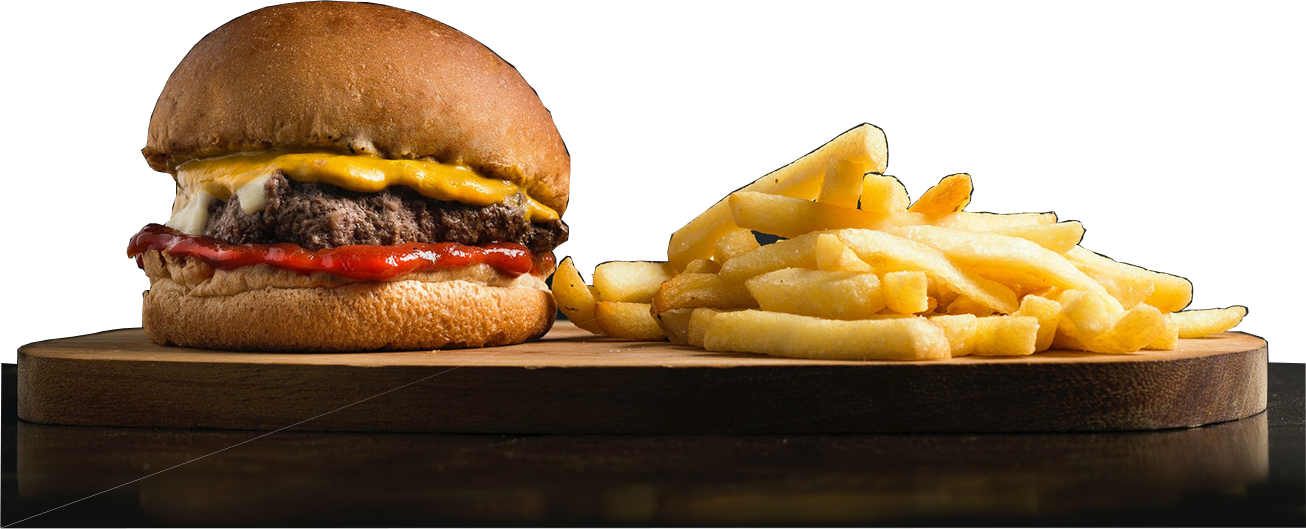
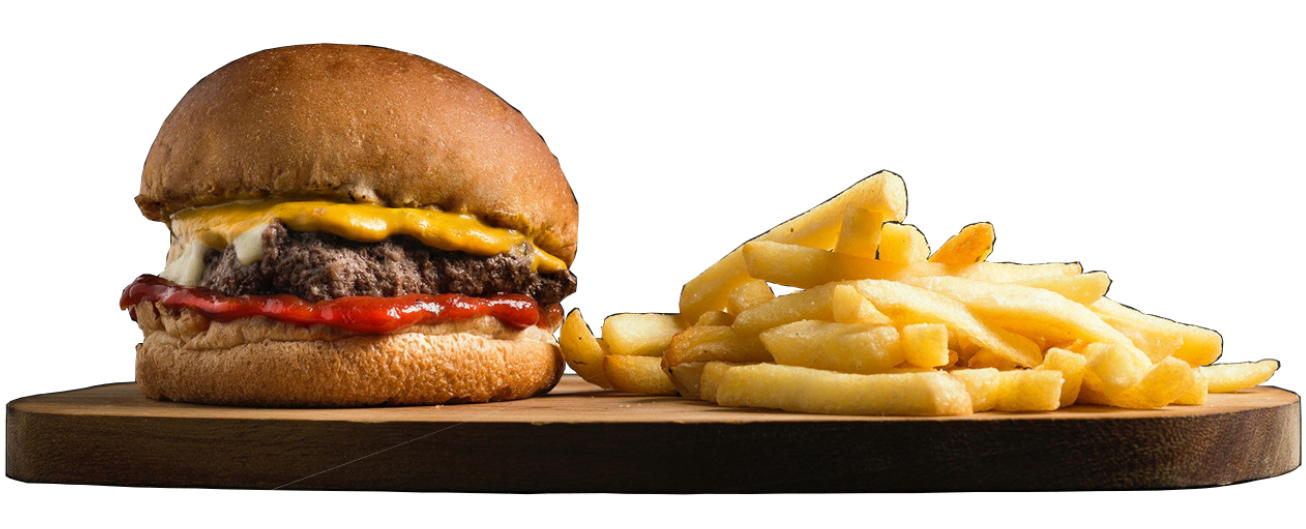
Edición de carrusel, imágenes y posición

diff --git a/index.html b/index.html
@@ -67,57 +67,6 @@
               </li>
             </ul>
             <div class="user_option">
-               </a>
-              <a class="cart_link" href="#">
-                <svg version="1.1" id="Capa_1" xmlns="http://www.w3.org/2000/svg" xmlns:xlink="http://www.w3.org/1999/xlink" x="0px" y="0px" viewBox="0 0 456.029 456.029" style="enable-background:new 0 0 456.029 456.029;" xml:space="preserve">
-                  <g>
-                    <g>
-                      
-                    </g>
-                  </g>
-                  <g>
-                    <g>
-                      
-                    </g>
-                  </g>
-                  <g>
-                    <g>
-             
-                    </g>
-                  </g>
-                  <g>
-                  </g>
-                  <g>
-                  </g>
-                  <g>
-                  </g>
-                  <g>
-                  </g>
-                  <g>
-                  </g>
-                  <g>
-                  </g>
-                  <g>
-                  </g>
-                  <g>
-                  </g>
-                  <g>
-                  </g>
-                  <g>
-                  </g>
-                  <g>
-                  </g>
-                  <g>
-                  </g>
-                  <g>
-                  </g>
-                  <g>
-                  </g>
-                  <g>
-                  </g>
-                </svg>
-              </a>
-              
               <a href="" class="order_online">
                 Ingresar
               </a>
@@ -131,74 +80,89 @@
     <section class="slider_section ">
       <div id="customCarousel1" class="carousel slide" data-ride="carousel">
         <div class="carousel-inner">
+
           <div class="carousel-item active">
-            <div class="container">
-              <div class="contenedor-item">
-                
+
+            <div class="container item-fix">
+              
+              <div class="contenedor-item"> 
                 <div class="item-slide">
                   <div class="detail-box">
                     <h1>
-                      Fast Food Restaurant
+                      Cafeteria
                     </h1>
                     <p>
                       Doloremque, itaque aperiam facilis rerum, commodi, temporibus sapiente ad mollitia laborum quam quisquam esse error unde. Tempora ex doloremque, labore, sunt repellat dolore, iste magni quos nihil ducimus libero ipsam.
                     </p>
                   </div> 
-                </div>
-                <div class="item-slide">
-                  <img src="images\hamburguesa.png" class="img-slide" >
-                </div>
-                  
-                
-               
-              
-            </div>
-           
-           
-            </div>
-          </div>
-          <div class="carousel-item ">
-            <div class="container ">
-              <div class="row">
-                <div class="col-md-7 col-lg-6 ">
-                  <div class="detail-box">
-                    <h1>
-                      Fast Food Restaurant
-                    </h1>
-                    <p>
-                      Doloremque, itaque aperiam facilis rerum, commodi, temporibus sapiente ad mollitia laborum quam quisquam esse error unde. Tempora ex doloremque, labore, sunt repellat dolore, iste magni quos nihil ducimus libero ipsam.
-                    </p>
-                    <div class="btn-box">
-                      <a href="" class="btn1">
-                        Order Now
-                      </a>
-                    </div>
                   </div>
-                </div>
+
+                  <div class="item-slide">
+                  <img src="images\cafeConMedialuna.png" class="img-slide" >
+                  </div>
+
               </div>
+
             </div>
+
           </div>
+
+
           <div class="carousel-item">
-            <div class="container ">
-              <div class="row">
-                <div class="col-md-7 col-lg-6 ">
+
+            <div class="container item-fix">
+              
+              <div class="contenedor-item"> 
+                <div class="item-slide">
                   <div class="detail-box">
                     <h1>
-                      Fast Food Restaurant
+                      Comidas
                     </h1>
                     <p>
                       Doloremque, itaque aperiam facilis rerum, commodi, temporibus sapiente ad mollitia laborum quam quisquam esse error unde. Tempora ex doloremque, labore, sunt repellat dolore, iste magni quos nihil ducimus libero ipsam.
                     </p>
-                    <div class="btn-box">
-                      <a href="" class="btn1">
-                        Order Now
-                      </a>
-                    </div>
+                  </div> 
                   </div>
-                </div>
+
+                  <div class="item-slide">
+                  <img src="images\hamburguesa.png" class="img-slide" >
+                  </div>
+
               </div>
+
             </div>
+
           </div>
+
+
+          <div class="carousel-item">
+
+            <div class="container item-fix">
+              
+              <div class="contenedor-item"> 
+                <div class="item-slide">
+                  <div class="detail-box">
+                    <h1>
+                      Tragos y bebidas
+                    </h1>
+                    <p>
+                      Doloremque, itaque aperiam facilis rerum, commodi, temporibus sapiente ad mollitia laborum quam quisquam esse error unde. Tempora ex doloremque, labore, sunt repellat dolore, iste magni quos nihil ducimus libero ipsam.
+                    </p>
+                  </div> 
+                  </div>
+
+                  <div class="item-slide">
+                  <img src="images\bebidasYtragos.png" class="img-slide" >
+                  </div>
+
+              </div>
+
+            </div>
+
+          </div>
+
+         
+         
         </div>
         <div class="container">
           <ol class="carousel-indicators">

diff --git a/css/style.css b/css/style.css
@@ -336,6 +336,10 @@ a:focus {
   float: inline-start;
 }
 
+.item-fix{
+  padding-left: 7%;
+}
+
 .img-slide{
   max-width: 100%;
 }
